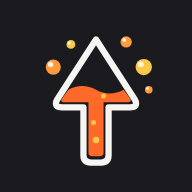
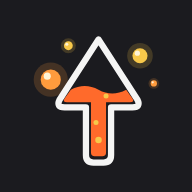
style(ui): esferas da seta em posições soltas e com brilho

diff --git a/src/components/Logo.tsx b/src/components/Logo.tsx
@@ -10,16 +10,15 @@ export function FlameMark({ size = 24, className = '' }: { size?: number; classN
 
 /** Esferas de XP em volta da ponta da seta: [x, y, raio, cor]. */
 const ORBS_FULL: [number, number, number, string][] = [
-  [26, 34, 6, '#ff9b3d'],
-  [40, 16, 3.5, 'var(--gold)'],
-  [84, 14, 4.5, '#ff9b3d'],
-  [98, 34, 6.5, 'var(--gold)'],
-  [102, 52, 3, '#ff9b3d'],
+  [22, 44, 8, '#ff9b3d'],
+  [36, 17, 3.5, 'var(--gold)'],
+  [93, 25, 6, 'var(--gold)'],
+  [104, 47, 2.5, '#ff9b3d'],
 ]
 const ORBS_SMALL: [number, number, number, string][] = [
-  [25, 34, 7.5, '#ff9b3d'],
-  [79, 9, 6.5, 'var(--gold)'],
-  [99, 34, 8, '#ff9b3d'],
+  [22, 42, 8.5, '#ff9b3d'],
+  [37, 15, 5, 'var(--gold)'],
+  [95, 24, 7, 'var(--gold)'],
 ]
 
 /** Frasco em forma de seta para cima com esferas de XP, a marca do app. */
@@ -28,7 +27,7 @@ export function ArrowMark({ size = 24, className = '' }: { size?: number; classN
   const small = size < 40
   const orbs = small ? ORBS_SMALL : ORBS_FULL
   return (
-    <svg className={`arrow-mark ${className}`} width={size} height={size} viewBox="8 2 104 110" aria-hidden>
+    <svg className={`arrow-mark ${className}`} width={size} height={size} viewBox="4 2 108 110" aria-hidden>
       <path
         d="M38 52 Q49 46 60 52 T82 52 L87 59 Q89 62 85 62 H66 V102 Q66 105 63 105 H57 Q54 105 54 102 V62 H35 Q31 62 33 59 Z"
         fill="var(--brand)"
@@ -40,6 +39,9 @@ export function ArrowMark({ size = 24, className = '' }: { size?: number; classN
           <circle cx="66" cy="57" r="2" fill="var(--gold)" />
         </>
       )}
+      {orbs.map(([x, y, r, c]) => (
+        <circle key={`h${x}-${y}`} cx={x} cy={y} r={r * 1.7} fill={c} opacity={0.18} />
+      ))}
       <path
         d="M60 12 L91 60 Q94 66 87 66 H70 V104 Q70 110 64 110 H56 Q50 110 50 104 V66 H33 Q26 66 29 60 Z"
         fill="none"
